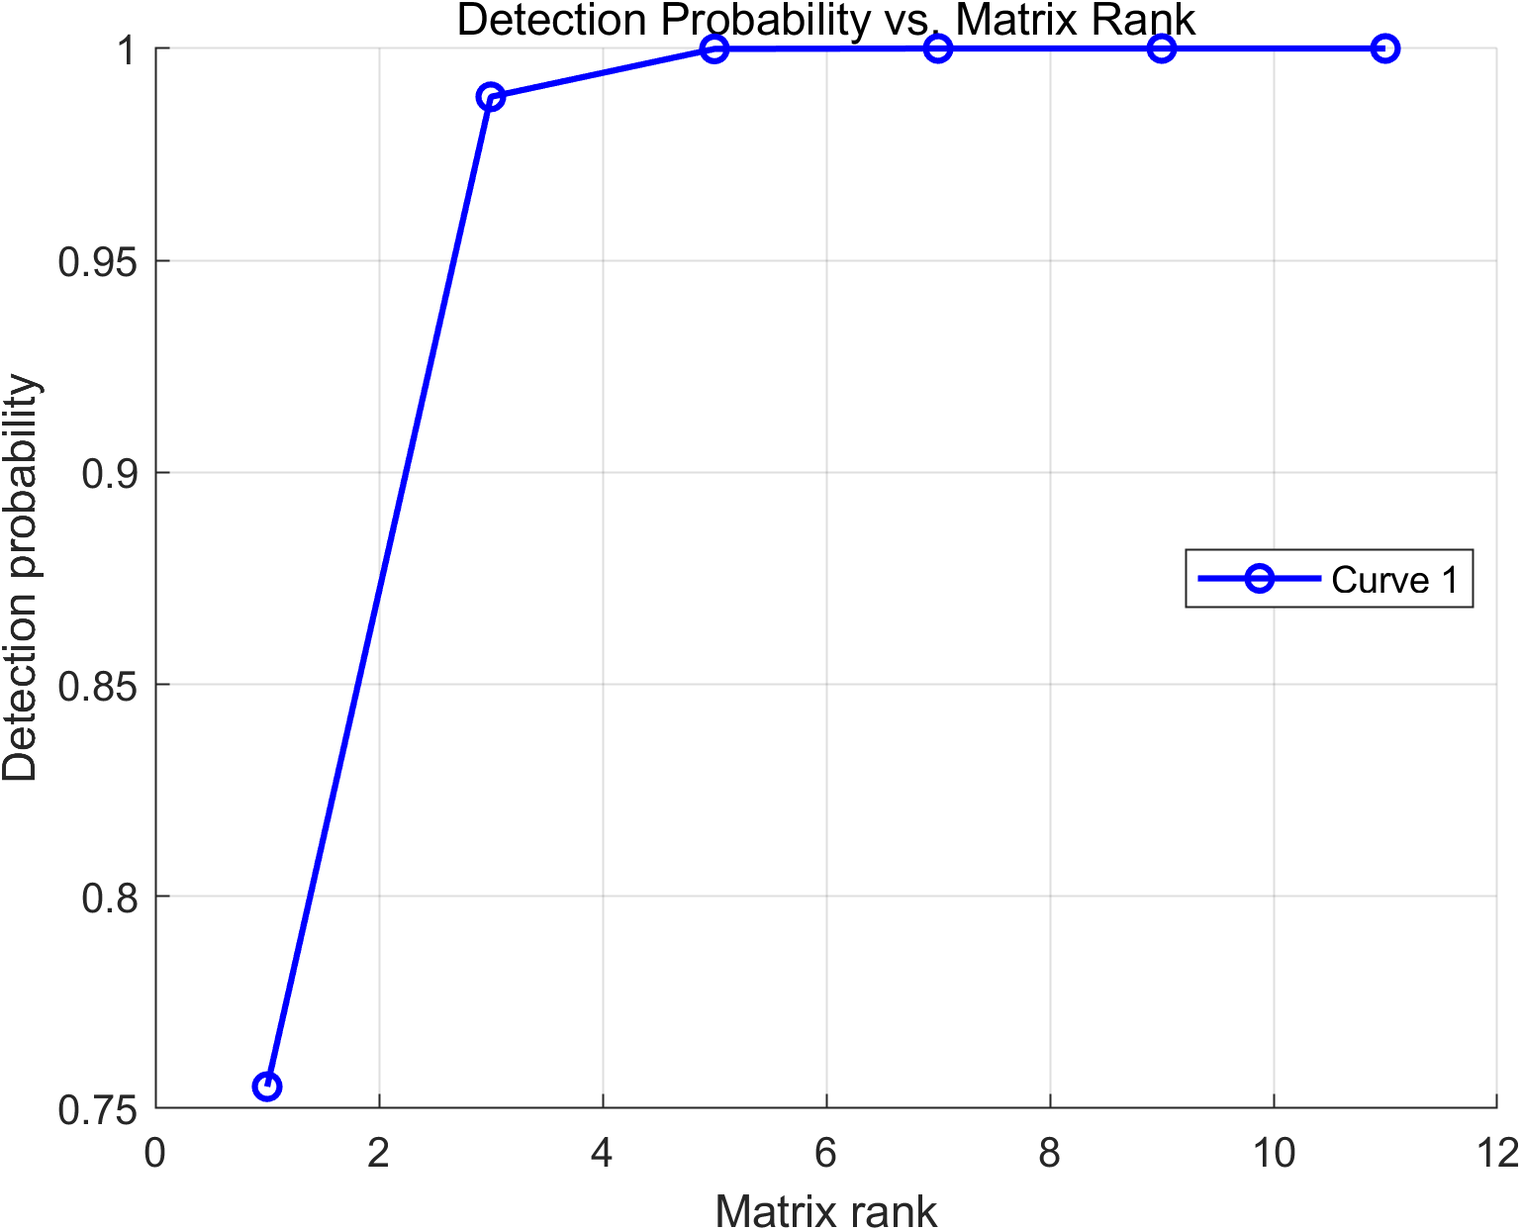
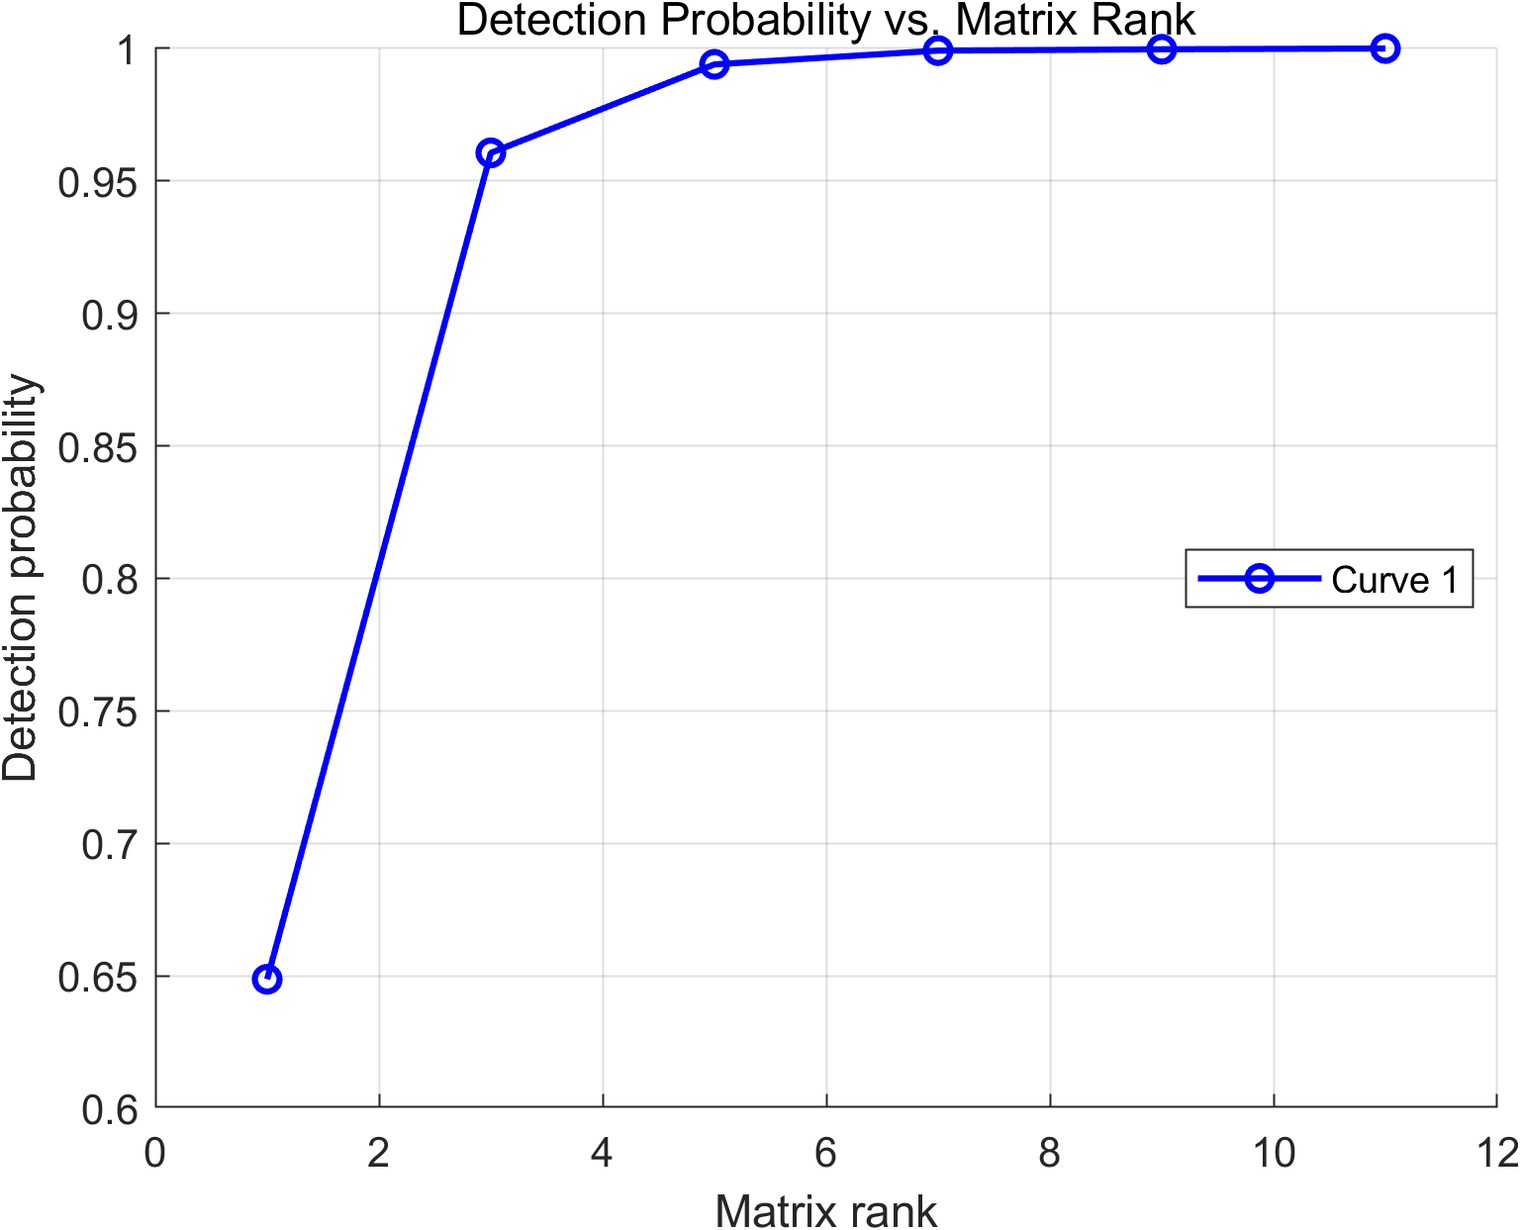
检测界面增加边界弹窗

diff --git a/web_frontend/src/App.tsx b/web_frontend/src/App.tsx
@@ -8,6 +8,11 @@ type Task = { id: string; title: string; status: string; logs: string[]; result?
 type Recommendation = { node_id: string; node_name: string; frequency: number; severity: number; rrf: number; target_sil: number }
 type SdgNode = { id: string; name: string; type: 'R' | 'P' | 'C'; probability: number }
 type SdgEdge = { source: string; target: string; type: '+' | '-'; probability: number }
+type AnomalyNumericField = 'attack_min_pct' | 'attack_max_pct' | 'measurement_noise_pct' | 'process_disturbance_pct'
+type AnomalyField = 'mcr_root' | AnomalyNumericField
+type AnomalyForm = { mcr_root: string } & Record<AnomalyNumericField, string>
+type AnomalyValidationError = { field: AnomalyField; message: string }
+type ErrorDialogState = { title: string; message: string }
 
 type NavigationItem = { id: ModuleId; name: string; deferred?: boolean }
 type NavigationGroup = { id: string; icon: string; name: string; items: NavigationItem[] }
@@ -43,6 +48,56 @@ const SIL_DEFAULT_FORM: SilForm = {
   estimate_k: 5,
   estimate_low: 20,
   estimate_high: 80,
+}
+
+const anomalyNumericRules: Record<AnomalyNumericField, { label: string; minimum: number; maximum: number }> = {
+  attack_min_pct: { label: '随机攻击强度最小值', minimum: 5, maximum: 50 },
+  attack_max_pct: { label: '随机攻击强度最大值', minimum: 5, maximum: 50 },
+  measurement_noise_pct: { label: '测量噪声强度', minimum: 1, maximum: 30 },
+  process_disturbance_pct: { label: '过程扰动强度', minimum: 1, maximum: 30 },
+}
+
+const anomalyFieldOrder: AnomalyField[] = ['mcr_root', 'attack_min_pct', 'attack_max_pct', 'measurement_noise_pct', 'process_disturbance_pct']
+
+function anomalyNumericValue(form: AnomalyForm, field: AnomalyNumericField): number | null {
+  const rawValue = form[field].trim()
+  if (!rawValue) return null
+  const value = Number(rawValue)
+  return Number.isFinite(value) ? value : null
+}
+
+function validateAnomalyField(form: AnomalyForm, field: AnomalyField): AnomalyValidationError | null {
+  if (field === 'mcr_root') {
+    return form.mcr_root.trim() ? null : { field, message: '请填写 MATLAB Runtime 根目录。' }
+  }
+
+  const rule = anomalyNumericRules[field]
+  const rawValue = form[field].trim()
+  if (!rawValue) return { field, message: `${rule.label}不能为空。` }
+  const value = Number(rawValue)
+  if (!Number.isFinite(value)) return { field, message: `${rule.label}必须是有限数值。` }
+  if (value < rule.minimum || value > rule.maximum) {
+    return { field, message: `${rule.label}必须在 ${rule.minimum}%～${rule.maximum}% 之间（含边界）。` }
+  }
+
+  if (field === 'attack_min_pct' || field === 'attack_max_pct') {
+    const attackMin = anomalyNumericValue(form, 'attack_min_pct')
+    const attackMax = anomalyNumericValue(form, 'attack_max_pct')
+    const attackMinInRange = attackMin !== null && attackMin >= 5 && attackMin <= 50
+    const attackMaxInRange = attackMax !== null && attackMax >= 5 && attackMax <= 50
+    if (attackMinInRange && attackMaxInRange && attackMin > attackMax) {
+      return { field, message: '攻击幅度最小值不能大于最大值。' }
+    }
+  }
+  return null
+}
+
+function validateAnomalyForm(form: AnomalyForm): AnomalyValidationError | null {
+  for (const field of anomalyFieldOrder) {
+    const error = validateAnomalyField(form, field)
+    if (error) return error
+  }
+  return null
 }
 
 const navigationGroups: NavigationGroup[] = [
@@ -114,28 +169,63 @@ function TaskPanel({ task }: { task: Task | null }) {
   </section>
 }
 
+function ErrorDialog({ title, message, onClose }: { title: string; message: string; onClose: () => void }) {
+  const dialogRef = useRef<HTMLDialogElement>(null)
+  useEffect(() => {
+    const dialog = dialogRef.current
+    if (dialog && !dialog.open) dialog.showModal()
+    return () => {
+      if (dialog?.open) dialog.close()
+    }
+  }, [])
+  return <dialog ref={dialogRef} className="anomaly-error-dialog" role="alertdialog" aria-modal="true" aria-labelledby="anomaly-error-dialog-title" aria-describedby="anomaly-error-dialog-message" onKeyDown={event => { if (event.key === 'Escape') { event.preventDefault(); event.stopPropagation(); onClose() } }} onCancel={event => { event.preventDefault(); onClose() }}>
+    <header><h3 id="anomaly-error-dialog-title">{title}</h3><button type="button" className="anomaly-dialog-close" aria-label="关闭错误弹窗" onClick={onClose}>×</button></header>
+    <div id="anomaly-error-dialog-message" className="anomaly-dialog-message">{message}</div>
+    <footer><button type="button" autoFocus onClick={onClose}>确定</button></footer>
+  </dialog>
+}
+
 function AnomalyPage() {
-  const [form, setForm] = useState({
+  const [form, setForm] = useState<AnomalyForm>({
     mcr_root: 'E:\\MATLAB2024',
-    attack_min_pct: 5,
-    attack_max_pct: 10,
-    measurement_noise_pct: 2,
-    process_disturbance_pct: 5,
+    attack_min_pct: '5',
+    attack_max_pct: '10',
+    measurement_noise_pct: '2',
+    process_disturbance_pct: '5',
   })
   const [taskId, setTaskId] = useState<string | null>(null)
   const [imageMode, setImageMode] = useState<'topology' | 'detection'>('topology')
   const [imageRevision, setImageRevision] = useState(0)
   const [imageError, setImageError] = useState(false)
   const [error, setError] = useState('')
+  const [validationError, setValidationError] = useState('')
+  const [dialog, setDialog] = useState<ErrorDialogState | null>(null)
+  const fieldRefs = useRef<Record<AnomalyField, HTMLInputElement | null>>({ mcr_root: null, attack_min_pct: null, attack_max_pct: null, measurement_noise_pct: null, process_disturbance_pct: null })
+  const runButtonRef = useRef<HTMLButtonElement>(null)
+  const dialogReturnFocusRef = useRef<HTMLElement | null>(null)
+  const notifiedTaskFailures = useRef(new Set<string>())
   const task = useTask(taskId)
   const result = task?.result as Record<string, any> | undefined
   const running = task?.status === 'queued' || task?.status === 'running'
-  const statusText = error || task?.status === 'failed' ? '执行失败' : task?.status === 'succeeded' ? '执行完成' : running ? '运行中' : '待执行'
-  const statusEnglish = error || task?.status === 'failed' ? 'Failed' : task?.status === 'succeeded' ? 'Completed' : running ? 'Running' : 'Idle'
+  const pageError = validationError || error || task?.error || ''
+  const statusText = pageError || task?.status === 'failed' ? '执行失败' : task?.status === 'succeeded' ? '执行完成' : running ? '运行中' : '待执行'
+  const statusEnglish = pageError || task?.status === 'failed' ? 'Failed' : task?.status === 'succeeded' ? 'Completed' : running ? 'Running' : 'Idle'
   const imageName = imageMode === 'detection' ? 'detection_probability.png' : 'topology.png'
   const imageTitle = imageMode === 'detection' ? '检测概率图 (detection_probability.png)' : '网络拓扑图 (topology.png)'
   const imageUrl = `/api/anomaly/images/${imageName}?v=${encodeURIComponent(String(result?.image_revision ?? imageRevision))}`
   const report = result ? JSON.stringify(result, null, 2) : task?.error ? `执行失败：${task.error}` : ''
+
+  const showErrorDialog = useCallback((title: string, message: string, returnFocus: HTMLElement | null) => {
+    dialogReturnFocusRef.current = returnFocus
+    setDialog({ title, message })
+  }, [])
+
+  const closeErrorDialog = useCallback(() => {
+    const returnFocus = dialogReturnFocusRef.current
+    setDialog(null)
+    dialogReturnFocusRef.current = null
+    window.requestAnimationFrame(() => returnFocus?.focus())
+  }, [])
 
   useEffect(() => {
     if (task?.status === 'succeeded') {
@@ -144,14 +234,44 @@ function AnomalyPage() {
     }
   }, [task?.status, task?.result])
 
-  const update = (key: keyof typeof form, value: string | number) => setForm(previous => ({ ...previous, [key]: value }))
+  useEffect(() => {
+    if (task?.status !== 'failed' || !task.error || notifiedTaskFailures.current.has(task.id)) return
+    notifiedTaskFailures.current.add(task.id)
+    showErrorDialog('异常检测执行失败', task.error, runButtonRef.current)
+  }, [task?.error, task?.id, task?.status, showErrorDialog])
+
+  const update = (key: AnomalyField, value: string) => setForm(previous => ({ ...previous, [key]: value }))
+  const validateOnBlur = (field: AnomalyField) => {
+    const fieldError = validateAnomalyField(form, field)
+    if (fieldError) {
+      setValidationError(fieldError.message)
+      showErrorDialog('参数错误', fieldError.message, fieldRefs.current[field])
+      return
+    }
+    setValidationError(validateAnomalyForm(form)?.message ?? '')
+  }
   const submit = async () => {
+    const formError = validateAnomalyForm(form)
+    if (formError) {
+      setValidationError(formError.message)
+      showErrorDialog('参数错误', formError.message, fieldRefs.current[formError.field])
+      return
+    }
     try {
+      setValidationError('')
       setError('')
-      const nextTask = await post<{ task_id: string }>('/anomaly/tasks', form)
+      const nextTask = await post<{ task_id: string }>('/anomaly/tasks', {
+        mcr_root: form.mcr_root.trim(),
+        attack_min_pct: Number(form.attack_min_pct),
+        attack_max_pct: Number(form.attack_max_pct),
+        measurement_noise_pct: Number(form.measurement_noise_pct),
+        process_disturbance_pct: Number(form.process_disturbance_pct),
+      })
       setTaskId(nextTask.task_id)
     } catch (e) {
-      setError(e instanceof Error ? e.message : String(e))
+      const message = e instanceof Error ? e.message : String(e)
+      setError(message)
+      showErrorDialog('异常检测执行失败', message, runButtonRef.current)
     }
   }
   const exportResult = () => {
@@ -172,11 +292,11 @@ function AnomalyPage() {
         <div className="anomaly-box-body">
           <section className="anomaly-box anomaly-param-group">
             <h3>参数设置</h3>
-            <div className="anomaly-param-row"><label htmlFor="anomaly-mcr">MATLAB Runtime路径:</label><input id="anomaly-mcr" type="text" value={form.mcr_root} onChange={e => update('mcr_root', e.target.value)}/></div>
-            <div className="anomaly-param-row"><label>随机攻击强度范围（%）:</label><div className="anomaly-range"><input aria-label="随机攻击强度最小值" type="number" value={form.attack_min_pct} min={5} max={50} step={1} onChange={e => update('attack_min_pct', Number(e.target.value))}/><span>~</span><input aria-label="随机攻击强度最大值" type="number" value={form.attack_max_pct} min={5} max={50} step={1} onChange={e => update('attack_max_pct', Number(e.target.value))}/></div></div>
-            <div className="anomaly-param-row"><label htmlFor="anomaly-noise">测量噪声强度（%）:</label><input id="anomaly-noise" type="number" value={form.measurement_noise_pct} min={1} max={30} step={1} onChange={e => update('measurement_noise_pct', Number(e.target.value))}/></div>
-            <div className="anomaly-param-row"><label htmlFor="anomaly-disturbance">过程扰动强度（%）:</label><input id="anomaly-disturbance" type="number" value={form.process_disturbance_pct} min={1} max={30} step={1} onChange={e => update('process_disturbance_pct', Number(e.target.value))}/></div>
-            <div className="anomaly-centered-action"><button type="button" onClick={() => void submit()} disabled={running}>运行异常结果</button></div>
+            <div className="anomaly-param-row"><label htmlFor="anomaly-mcr">MATLAB Runtime路径:</label><input ref={element => { fieldRefs.current.mcr_root = element }} id="anomaly-mcr" type="text" value={form.mcr_root} onChange={e => update('mcr_root', e.target.value)} onBlur={() => validateOnBlur('mcr_root')}/></div>
+            <div className="anomaly-param-row"><label>随机攻击强度范围（%）:</label><div className="anomaly-range"><input ref={element => { fieldRefs.current.attack_min_pct = element }} aria-label="随机攻击强度最小值" type="number" value={form.attack_min_pct} min={5} max={50} step={1} onChange={e => update('attack_min_pct', e.target.value)} onBlur={() => validateOnBlur('attack_min_pct')}/><span>~</span><input ref={element => { fieldRefs.current.attack_max_pct = element }} aria-label="随机攻击强度最大值" type="number" value={form.attack_max_pct} min={5} max={50} step={1} onChange={e => update('attack_max_pct', e.target.value)} onBlur={() => validateOnBlur('attack_max_pct')}/></div></div>
+            <div className="anomaly-param-row"><label htmlFor="anomaly-noise">测量噪声强度（%）:</label><input ref={element => { fieldRefs.current.measurement_noise_pct = element }} id="anomaly-noise" type="number" value={form.measurement_noise_pct} min={1} max={30} step={1} onChange={e => update('measurement_noise_pct', e.target.value)} onBlur={() => validateOnBlur('measurement_noise_pct')}/></div>
+            <div className="anomaly-param-row"><label htmlFor="anomaly-disturbance">过程扰动强度（%）:</label><input ref={element => { fieldRefs.current.process_disturbance_pct = element }} id="anomaly-disturbance" type="number" value={form.process_disturbance_pct} min={1} max={30} step={1} onChange={e => update('process_disturbance_pct', e.target.value)} onBlur={() => validateOnBlur('process_disturbance_pct')}/></div>
+            <div className="anomaly-centered-action"><button ref={runButtonRef} type="button" onClick={() => void submit()} disabled={running}>运行异常结果</button></div>
           </section>
           <section className="anomaly-box anomaly-export-group">
             <h3>导出设置</h3>
@@ -194,7 +314,8 @@ function AnomalyPage() {
       </section>
     </div>
     <div className="anomaly-status-bar"><span>状态：{statusText}</span><span>Status: {statusEnglish}</span></div>
-    {(error || task?.error) && <ErrorBox text={error || task?.error || '异常检测失败'} />}
+    {pageError && <ErrorBox text={pageError} />}
+    {dialog && <ErrorDialog title={dialog.title} message={dialog.message} onClose={closeErrorDialog} />}
   </Page>
 }
 

diff --git a/web_frontend/src/api.ts b/web_frontend/src/api.ts
@@ -1,10 +1,50 @@
+type ApiValidationIssue = {
+  type?: string
+  loc?: Array<string | number>
+  msg?: string
+  ctx?: Record<string, unknown>
+}
+
+const fieldLabels: Record<string, string> = {
+  mcr_root: 'MATLAB Runtime 路径',
+  attack_min_pct: '随机攻击强度最小值',
+  attack_max_pct: '随机攻击强度最大值',
+  measurement_noise_pct: '测量噪声强度',
+  process_disturbance_pct: '过程扰动强度',
+}
+
+function formatValidationIssue(issue: ApiValidationIssue): string {
+  const location = issue.loc ?? []
+  const fieldName = String(location[location.length - 1] ?? '')
+  const label = fieldName === 'body' ? '' : fieldLabels[fieldName] ?? fieldName
+  const unit = fieldName.endsWith('_pct') ? '%' : ''
+  if (issue.type === 'greater_than_equal') return `${label}不能小于 ${String(issue.ctx?.ge)}${unit}。`
+  if (issue.type === 'less_than_equal') return `${label}不能大于 ${String(issue.ctx?.le)}${unit}。`
+  if (issue.type === 'finite_number') return `${label}必须是有限数值。`
+  if (issue.type === 'float_parsing' || issue.type === 'float_type') return `${label}必须是有效数值。`
+  if (issue.type === 'string_type') return `${label}必须是有效文本。`
+  const message = issue.msg?.replace(/^Value error,\s*/i, '').trim()
+  if (issue.type === 'value_error' && message) return message
+  if (message) return label && !message.includes(label) ? `${label}：${message}` : message
+  return label ? `${label}参数无效。` : '请求参数无效。'
+}
+
+function formatApiError(detail: unknown, status: number): string {
+  if (typeof detail === 'string' && detail.trim()) return detail
+  if (Array.isArray(detail)) {
+    const messages = detail.map(item => formatValidationIssue(item as ApiValidationIssue))
+    if (messages.length) return messages.join('\n')
+  }
+  return `请求失败（${status}）`
+}
+
 export async function api<T>(path: string, init?: RequestInit): Promise<T> {
   const response = await fetch(`/api${path}`, {
     headers: { 'Content-Type': 'application/json', ...(init?.headers ?? {}) },
     ...init,
   })
   const body = await response.json().catch(() => ({}))
-  if (!response.ok) throw new Error(body.detail ?? `请求失败（${response.status}）`)
+  if (!response.ok) throw new Error(formatApiError(body.detail, response.status))
   return body as T
 }
 

diff --git a/web_frontend/src/styles.css b/web_frontend/src/styles.css
@@ -414,6 +414,16 @@ main { min-width: 0; padding: 16px; }
 .anomaly-image-placeholder { padding: 20px; text-align: center; font-size: 15px; }
 .anomaly-status-bar { min-height: 36px; flex: 0 0 auto; display: flex; align-items: center; justify-content: space-between; gap: 10px; padding: 5px 10px; border: 1px solid rgba(126, 168, 208, .35); border-radius: 6px; background: rgba(25, 38, 55, .95); color: #cfe3fb; font-size: 14px; font-weight: 600; }
 .anomaly-page > .error { flex: 0 0 auto; margin-top: 0; }
+.anomaly-error-dialog { width: min(480px, calc(100vw - 32px)); max-width: 100%; padding: 0; overflow: hidden; color: #e9f3ff; border: 1px solid rgba(255, 116, 102, .72); border-radius: 10px; background: #17283a; box-shadow: 0 24px 70px rgba(0, 0, 0, .62), 0 0 0 1px rgba(255, 255, 255, .04) inset; }
+.anomaly-error-dialog::backdrop { background: rgba(3, 10, 18, .72); backdrop-filter: blur(3px); }
+.anomaly-error-dialog header { display: flex; align-items: center; justify-content: space-between; gap: 12px; padding: 14px 16px; border-bottom: 1px solid rgba(255, 116, 102, .32); background: linear-gradient(90deg, rgba(118, 39, 37, .62), rgba(36, 49, 65, .88)); }
+.anomaly-error-dialog h3 { margin: 0; color: #ffd8d4; font-size: 18px; }
+.anomaly-dialog-close { width: 32px; height: 32px; padding: 0; border: 0; border-radius: 5px; color: #dcecff; background: transparent; font-size: 24px; line-height: 1; }
+.anomaly-dialog-close:hover, .anomaly-dialog-close:focus-visible { color: #fff; background: rgba(255, 255, 255, .12); }
+.anomaly-dialog-message { min-height: 76px; padding: 20px 18px; color: #f4d8d5; font-size: 15px; line-height: 1.7; white-space: pre-wrap; overflow-wrap: anywhere; }
+.anomaly-error-dialog footer { display: flex; justify-content: flex-end; padding: 0 18px 16px; }
+.anomaly-error-dialog footer button { min-width: 86px; min-height: 38px; border-color: #d9675e; background: linear-gradient(180deg, #b54e48, #873b38); }
+.anomaly-error-dialog footer button:hover, .anomaly-error-dialog footer button:focus-visible { border-color: #ff958b; background: linear-gradient(180deg, #cc5b53, #99433f); }
 @media (min-width: 761px) {
   .anomaly-box > h3 { font-size: 18px; }
   .anomaly-param-group h3, .anomaly-export-group h3 { font-size: 17px; }

diff --git a/tests/test_web_core.py b/tests/test_web_core.py
@@ -6,9 +6,10 @@ import time
 import unittest
 
 from fastapi.testclient import TestClient
+from pydantic import ValidationError
 
 from platform_core.scoring import default_values, evaluate
-from web_backend.app import app
+from web_backend.app import AnomalyTaskRequest, app
 
 
 class SharedScoringTests(unittest.TestCase):
@@ -78,6 +79,38 @@ class LocalApiTests(unittest.TestCase):
             image = self.client.get(f"/api/mpc/images/{image_name}")
             self.assertEqual(image.status_code, 200)
             self.assertEqual(image.headers["content-type"], "image/png")
+
+    def test_anomaly_request_accepts_inclusive_boundaries(self) -> None:
+        request = AnomalyTaskRequest(
+            mcr_root=r" E:\MATLAB2024 ",
+            attack_min_pct=5,
+            attack_max_pct=50,
+            measurement_noise_pct=1,
+            process_disturbance_pct=30,
+        )
+        self.assertEqual(request.mcr_root, r"E:\MATLAB2024")
+        self.assertEqual(request.attack_min_pct, 5)
+        self.assertEqual(request.attack_max_pct, 50)
+        self.assertEqual(request.measurement_noise_pct, 1)
+        self.assertEqual(request.process_disturbance_pct, 30)
+
+    def test_anomaly_request_rejects_invalid_parameters_before_task_creation(self) -> None:
+        invalid_payloads = [
+            {"attack_min_pct": 4.9},
+            {"attack_max_pct": 50.1},
+            {"measurement_noise_pct": 0.9},
+            {"process_disturbance_pct": 30.1},
+            {"attack_min_pct": 20, "attack_max_pct": 10},
+            {"mcr_root": "   "},
+        ]
+        for payload in invalid_payloads:
+            with self.subTest(payload=payload):
+                response = self.client.post("/api/anomaly/tasks", json=payload)
+                self.assertEqual(response.status_code, 422, response.text)
+                self.assertNotIn("task_id", response.json())
+
+        with self.assertRaises(ValidationError):
+            AnomalyTaskRequest(attack_min_pct=float("nan"))
 
     def test_cdq_config_and_sample_first_analysis(self) -> None:
         config_response = self.client.get("/api/cdq/config")

diff --git a/web_backend/app.py b/web_backend/app.py
@@ -10,7 +10,7 @@ from typing import Any, Literal
 from fastapi import FastAPI, HTTPException
 from fastapi.middleware.cors import CORSMiddleware
 from fastapi.responses import FileResponse, JSONResponse
-from pydantic import BaseModel, Field
+from pydantic import BaseModel, Field, field_validator, model_validator
 
 
 ROOT = Path(__file__).resolve().parent.parent
@@ -80,10 +80,24 @@ class ClassificationTaskRequest(BaseModel):
 
 class AnomalyTaskRequest(BaseModel):
     mcr_root: str = r"E:\MATLAB2024"
-    attack_min_pct: float = 5.0
-    attack_max_pct: float = 10.0
-    measurement_noise_pct: float = 2.0
-    process_disturbance_pct: float = 5.0
+    attack_min_pct: float = Field(default=5.0, ge=5.0, le=50.0, allow_inf_nan=False)
+    attack_max_pct: float = Field(default=10.0, ge=5.0, le=50.0, allow_inf_nan=False)
+    measurement_noise_pct: float = Field(default=2.0, ge=1.0, le=30.0, allow_inf_nan=False)
+    process_disturbance_pct: float = Field(default=5.0, ge=1.0, le=30.0, allow_inf_nan=False)
+
+    @field_validator("mcr_root")
+    @classmethod
+    def validate_mcr_root(cls, value: str) -> str:
+        normalized = value.strip()
+        if not normalized:
+            raise ValueError("请填写 MATLAB Runtime 根目录。")
+        return normalized
+
+    @model_validator(mode="after")
+    def validate_attack_range(self) -> "AnomalyTaskRequest":
+        if self.attack_min_pct > self.attack_max_pct:
+            raise ValueError("攻击幅度最小值不能大于最大值。")
+        return self
 
 
 class TrainingTaskRequest(BaseModel):
